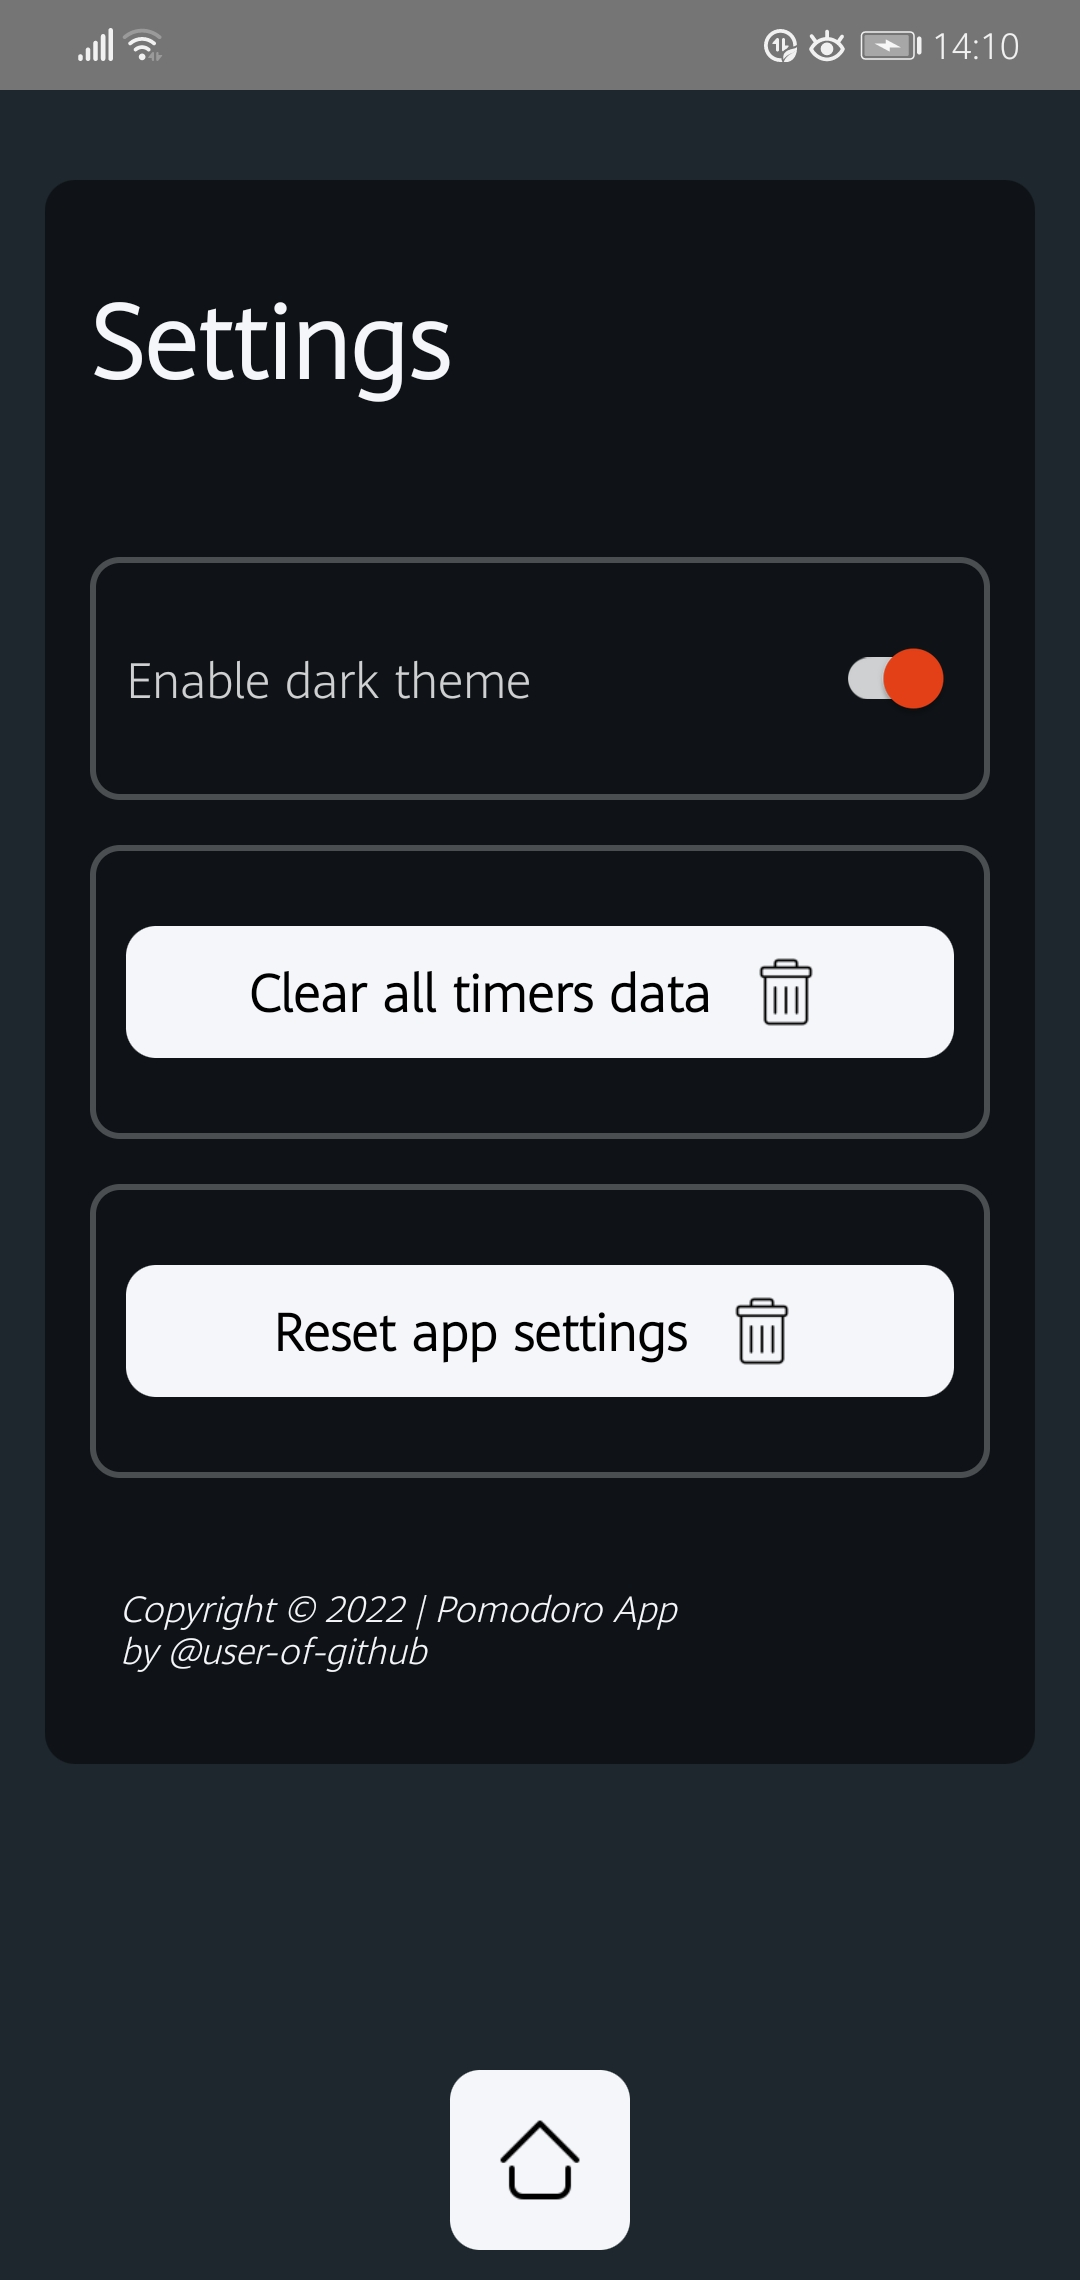
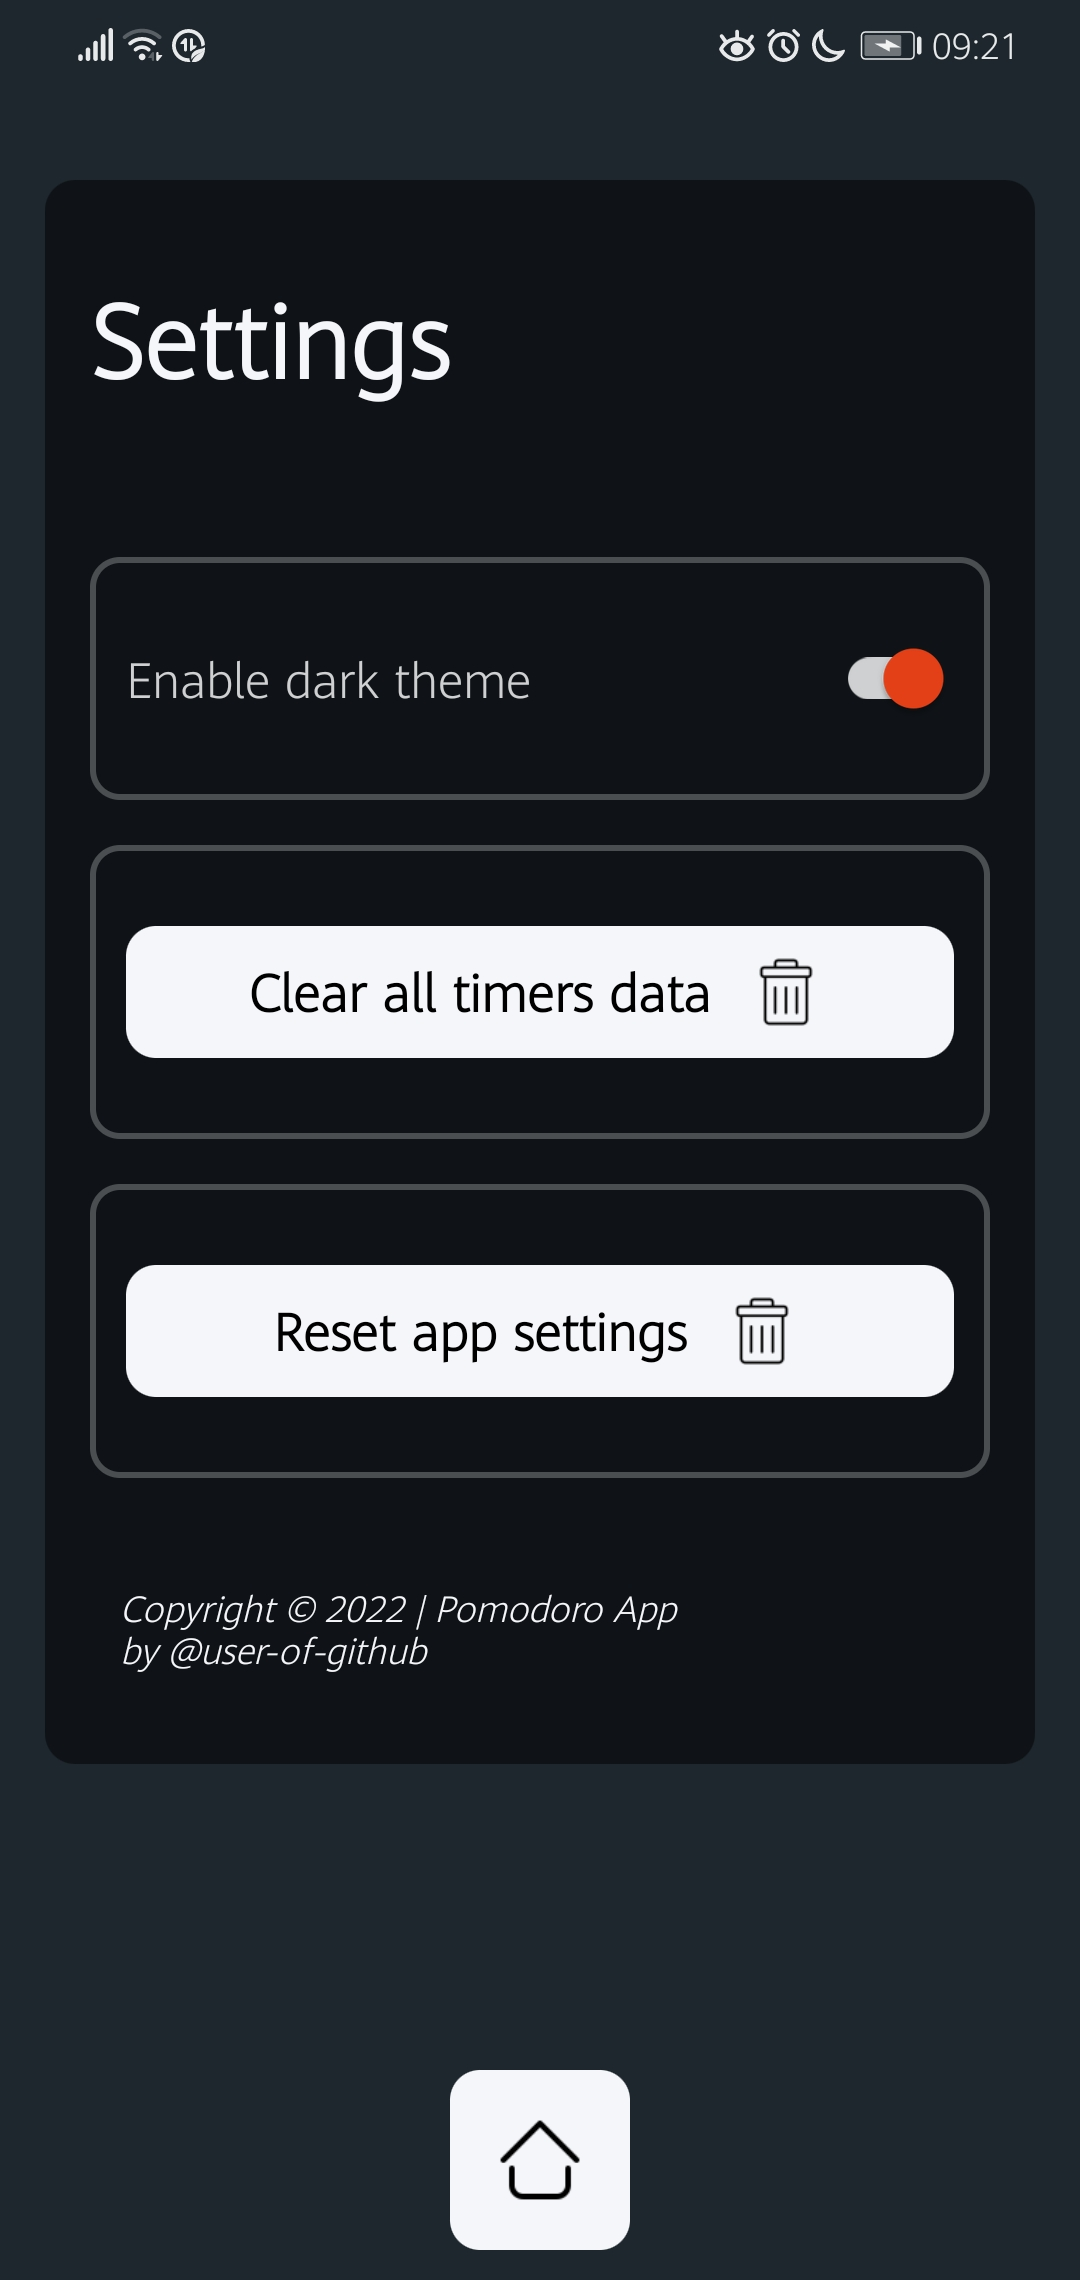
fix: proirity of notification. feat: statusbar color according to theme

Changed region(s): [[0.0, 0.0, 1.0, 0.0623]]

diff --git a/LR2/PomodoroTimer/components/Application.tsx b/LR2/PomodoroTimer/components/Application.tsx
@@ -2,7 +2,7 @@ import React from 'react'
 import { NavigationContainer } from '@react-navigation/native'
 import { HomeScreen } from '../screens/HomeScreen'
 import { SettingsScreen } from '../screens/SettingsScreen'
-import { StyleSheet, View } from 'react-native'
+import { StatusBar, StatusBarStyle, StyleSheet, View } from 'react-native'
 import { createNativeStackNavigator } from '@react-navigation/native-stack'
 import { useSelector } from 'react-redux'
 import { Theme } from '../types/Theme'
@@ -19,17 +19,23 @@ export const Application = React.memo((): JSX.Element => {
 
   const style = [styles.wrapper, theme === Theme.DARK ? styles.wrapperDark : styles.wrapperLight]
 
+  const statusBarBackground: string = theme === Theme.DARK ? '#1e272e' : 'white'
+  const statusBarText: string = theme === Theme.DARK ? 'light-content' : 'dark-content'
+
   return (
-    <View style={style}>
-      <NavigationContainer>
-        <Stack.Navigator screenOptions={{ headerShown: false, contentStyle: { backgroundColor: 'transparent' } }}>
-          <Stack.Screen name="Home" component={HomeScreen} />
-          <Stack.Screen name="Settings" component={SettingsScreen} />
-          <Stack.Screen name="SetUpTimer" component={SetUpTimerScreen} />
-          <Stack.Screen name="RunTimer" component={RunTimerScreen} />
-        </Stack.Navigator>
-      </NavigationContainer>
-    </View>
+    <>
+      <StatusBar barStyle={statusBarText as StatusBarStyle} backgroundColor={statusBarBackground}/>
+      <View style={style}>
+        <NavigationContainer>
+          <Stack.Navigator screenOptions={{ headerShown: false, contentStyle: { backgroundColor: 'transparent' } }}>
+            <Stack.Screen name="Home" component={HomeScreen} />
+            <Stack.Screen name="Settings" component={SettingsScreen} />
+            <Stack.Screen name="SetUpTimer" component={SetUpTimerScreen} />
+            <Stack.Screen name="RunTimer" component={RunTimerScreen} />
+          </Stack.Navigator>
+        </NavigationContainer>
+      </View>
+    </>
   )
 })
 

diff --git a/LR2/PomodoroTimer/components/runTimerPanel/RunTimerPanel.tsx b/LR2/PomodoroTimer/components/runTimerPanel/RunTimerPanel.tsx
@@ -50,7 +50,8 @@ export const RunTimerPanel = React.memo((): JSX.Element => {
       title: 'Finish',
       message: 'Pomodoro is over',
       date: new Date(Date.now() + timer.totalSecondsCount * 1000),
-      allowWhileIdle: true
+      allowWhileIdle: true,
+      priority: 'high'
     })
   }, [])
 
